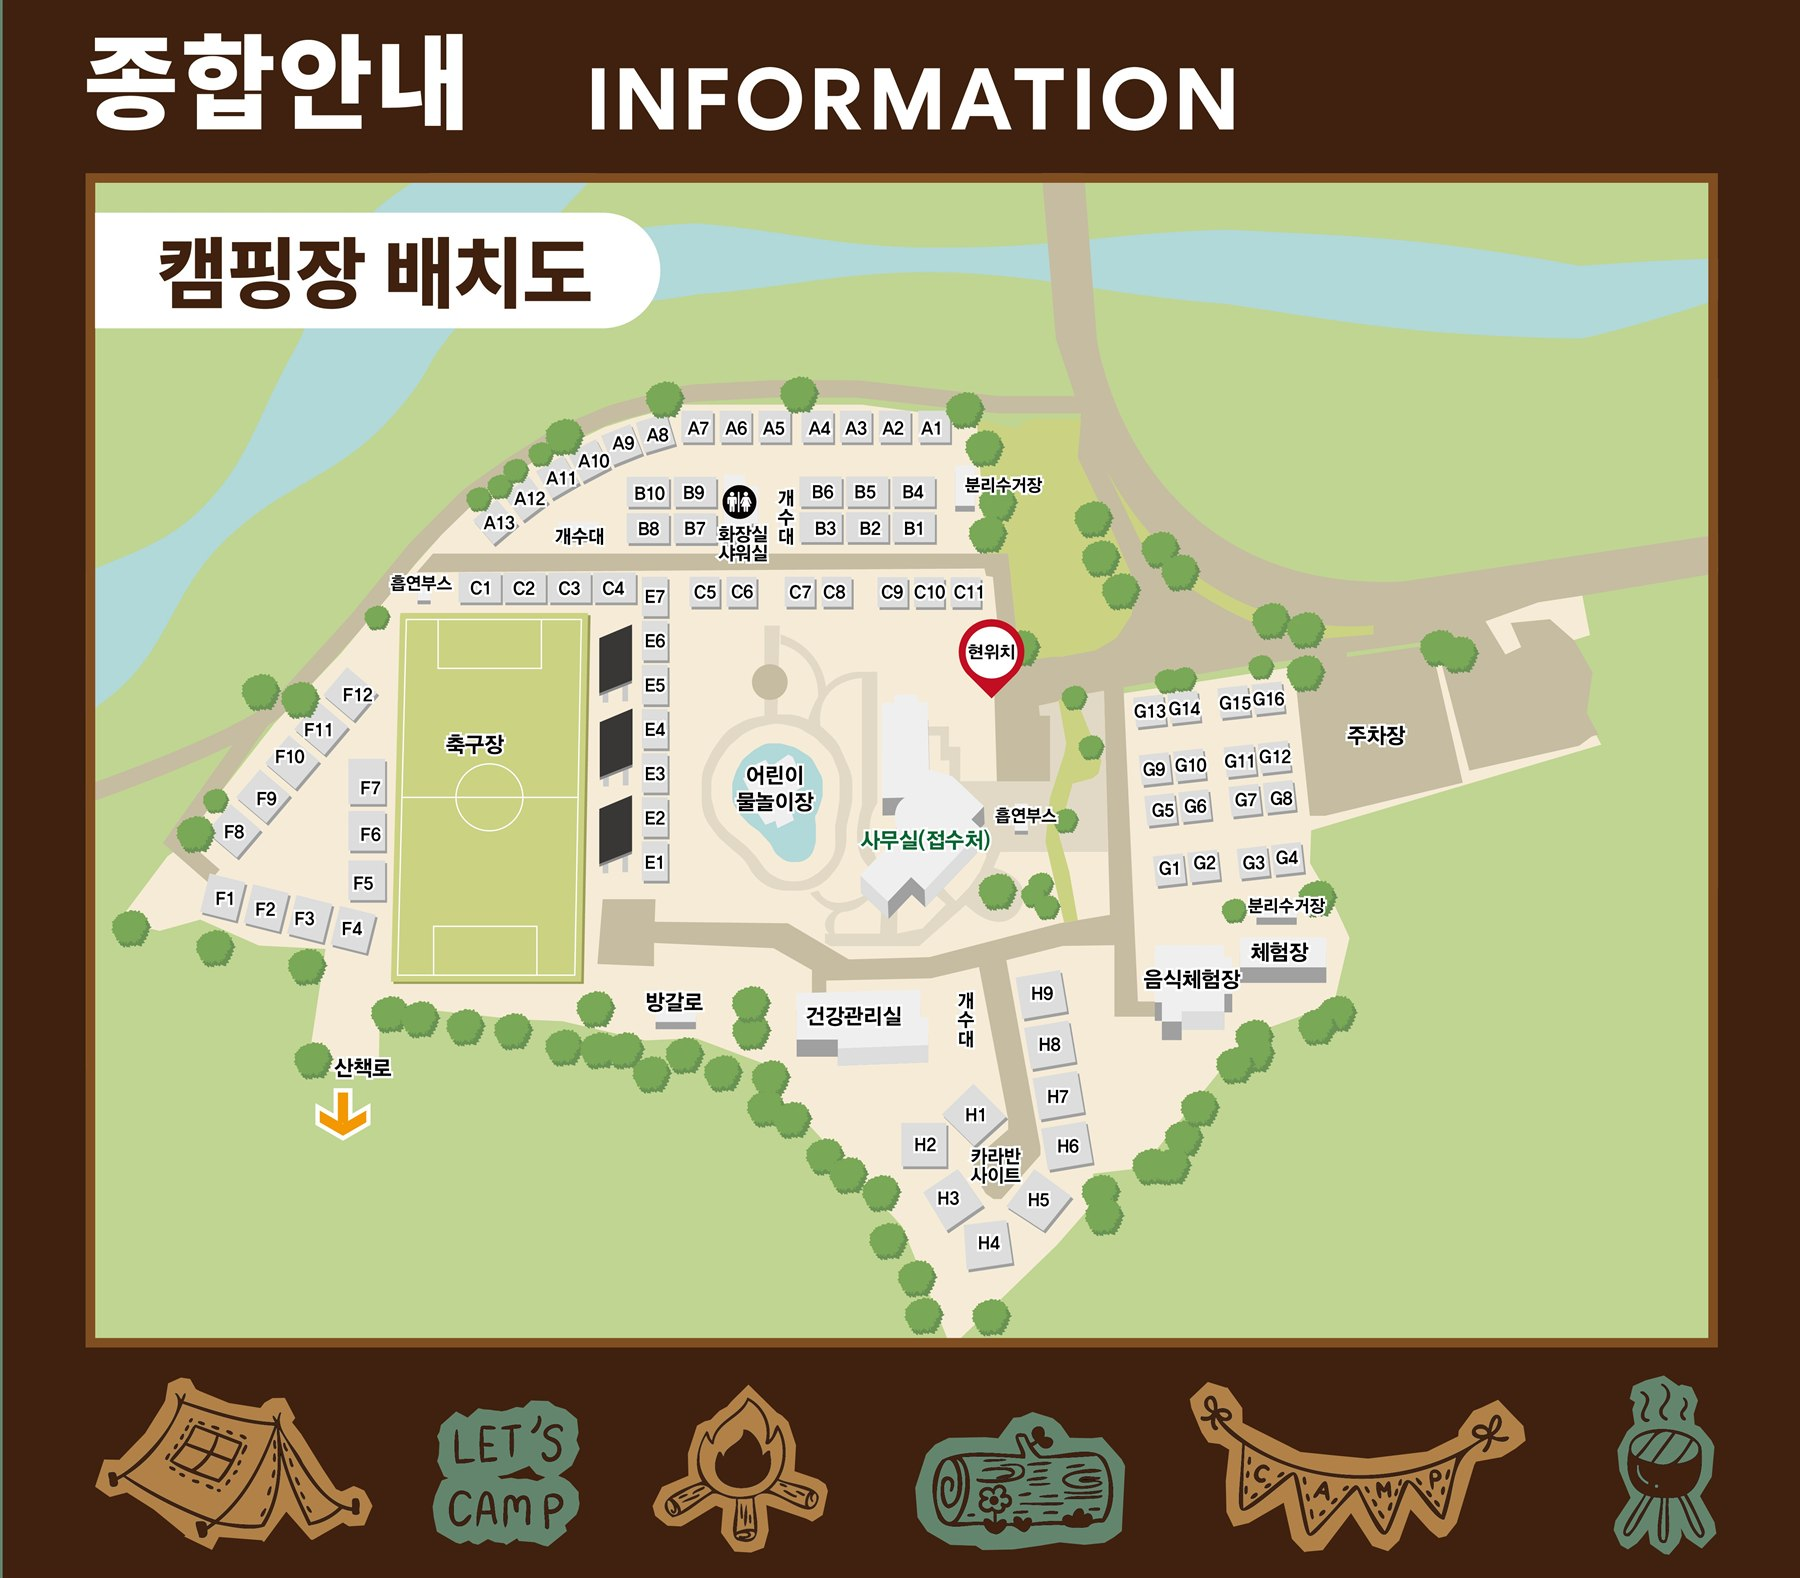
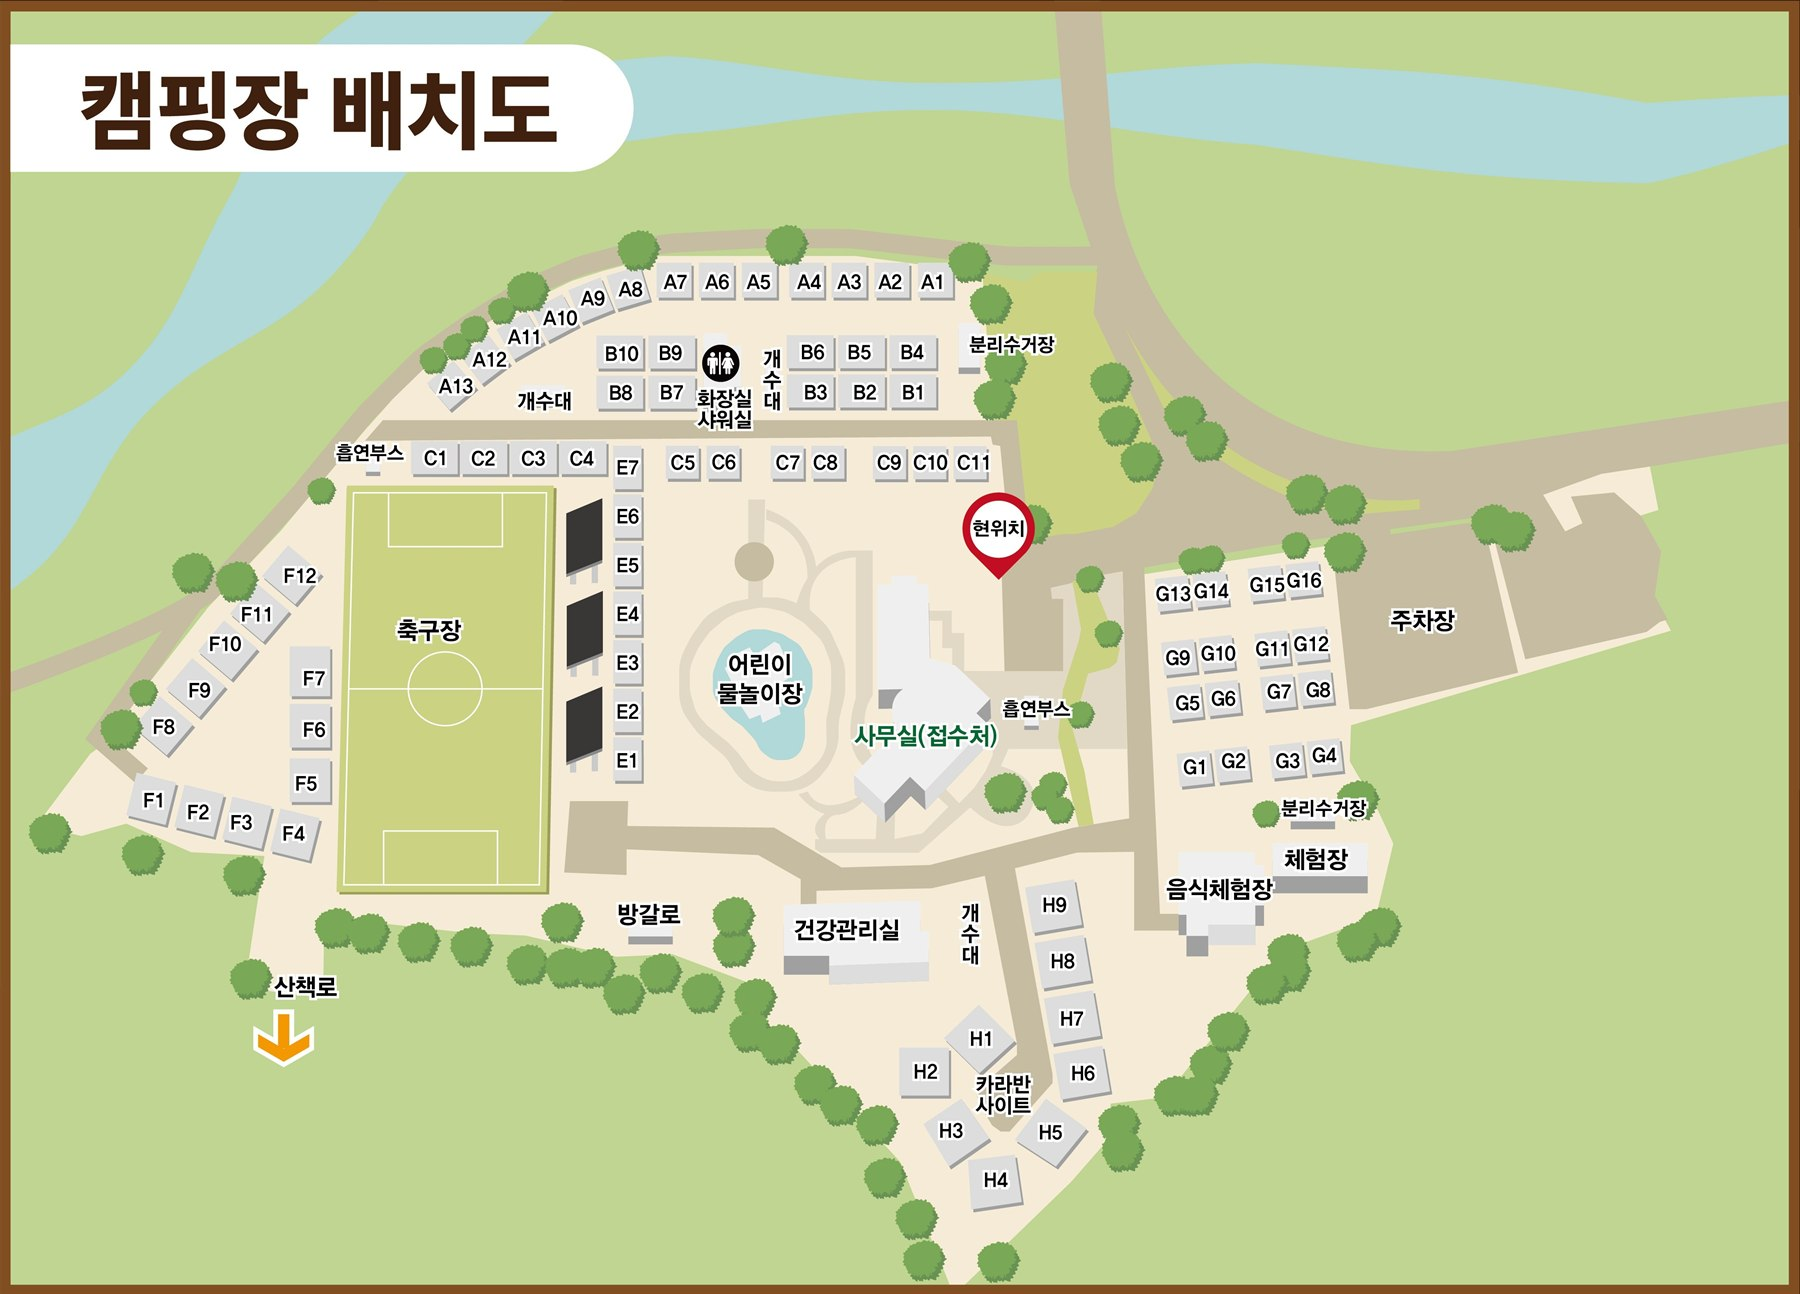
배치도 이미지 교체 · 카라반펜션 9실 / 총 20실로 수정

diff --git a/camping.html b/camping.html
@@ -4,7 +4,7 @@
   <meta charset="UTF-8" />
   <meta name="viewport" content="width=device-width, initial-scale=1.0" />
   <title>너와두리 캠핑장 &amp; 숙소 | 요금 · 시설 안내</title>
-  <meta name="description" content="너와두리 캠핑장 오토캠핑 70동 요금과 이용안내, 카라반펜션 등 숙소 22실, 편의시설과 부대시설(축구장·물놀이체험장·세미나실) 안내. 예약문의 010-2309-7620" />
+  <meta name="description" content="너와두리 캠핑장 오토캠핑 70동 요금과 이용안내, 카라반펜션 등 숙소 20실, 편의시설과 부대시설(축구장·물놀이체험장·세미나실) 안내. 예약문의 010-2309-7620" />
 
   <link rel="stylesheet" as="style" crossorigin href="https://cdn.jsdelivr.net/gh/orioncactus/pretendard@v1.3.9/dist/web/variable/pretendardvariable-dynamic-subset.min.css" />
   <script src="https://cdn.tailwindcss.com?plugins=forms"></script>
@@ -139,7 +139,7 @@
       </nav>
       <h1 class="mt-4 text-5xl font-extrabold leading-[1.05] tracking-tightest text-leaf-900 sm:text-6xl">너와두리 캠핑장 &amp; 숙소</h1>
       <p class="mt-5 max-w-2xl text-[16.5px] leading-snug text-stone-600">
-        오토캠핑 사이트 70동, 숙소 22실, 축구장과 물놀이체험장까지
+        오토캠핑 사이트 70동, 숙소 20실, 축구장과 물놀이체험장까지
         한두레마을이 직접 운영합니다.
       </p>
 
@@ -324,7 +324,7 @@
         <div class="reveal mt-12">
           <div class="-mx-5 px-5 sm:mx-0 sm:px-0">
             <div id="stayTabs" role="tablist" aria-label="객실 분류" class="no-bar flex gap-2 overflow-x-auto pb-2">
-              <button type="button" role="tab" id="st-carapension" aria-controls="sp-carapension" aria-selected="true" class="vt">카라반펜션 (11실)</button>
+              <button type="button" role="tab" id="st-carapension" aria-controls="sp-carapension" aria-selected="true" class="vt">카라반펜션 (9실)</button>
               <button type="button" role="tab" id="st-family" aria-controls="sp-family" aria-selected="false" class="vt" tabindex="-1">건강관리실 (8실)</button>
               <button type="button" role="tab" id="st-family2" aria-controls="sp-family2" aria-selected="false" class="vt" tabindex="-1">펜션 (2실)</button>
               <button type="button" role="tab" id="st-group" aria-controls="sp-group" aria-selected="false" class="vt" tabindex="-1">단체실 (1실)</button>
@@ -336,7 +336,7 @@
 
             <!--
               ┌──────────────────────────────────────────────────────────┐
-              │ 카라반펜션 11실                                            │
+              │ 카라반펜션 9실                                            │
               │                                                          │
               │ 아직 받지 못한 내용이 있어 비워 둔 곳이 있습니다.            │
               │   · 사진 — images/ 에 사진을 올리고 아래 src 를 바꾸세요.    │
@@ -364,13 +364,13 @@
                       </div>
                     </div>
                     <div class="lg:col-span-5">
-                      <h3 class="text-2xl font-extrabold text-leaf-900">카라반펜션 <span class="text-persimmon-600">11실</span></h3>
+                      <h3 class="text-2xl font-extrabold text-leaf-900">카라반펜션 <span class="text-persimmon-600">9실</span></h3>
                       <p class="mt-3 text-[15px] leading-snug text-stone-600">
                         캠핑 장비 없이도 카라반에서 하룻밤을 보내실 수 있는 숙소입니다.
-                        너와두리에서 가장 많은 11실을 갖추고 있습니다.
+                        너와두리에서 가장 많은 9실을 갖추고 있습니다.
                       </p>
                       <dl class="mt-6 space-y-3 text-[14.5px]">
-                        <div class="flex gap-3"><dt class="w-20 shrink-0 font-bold text-leaf-800">객실 수</dt><dd class="text-stone-600">11실</dd></div>
+                        <div class="flex gap-3"><dt class="w-20 shrink-0 font-bold text-leaf-800">객실 수</dt><dd class="text-stone-600">9실</dd></div>
                         <div class="flex gap-3"><dt class="w-20 shrink-0 font-bold text-leaf-800">구비 시설</dt><dd class="text-stone-400">준비 중입니다</dd></div>
                       </dl>
                       <div class="mt-6 flex flex-wrap gap-2.5">
@@ -481,7 +481,7 @@
         <div class="reveal mt-8 rounded-[2rem] border border-leaf-600/12 bg-white p-1.5 shadow-softlg">
           <div class="rounded-[calc(2rem-0.375rem)] p-6 sm:p-8">
             <div class="flex flex-wrap items-center justify-between gap-3">
-              <h3 class="text-xl font-bold text-leaf-900">숙박 요금 한눈에 보기 <span class="ml-1 text-[15px] font-semibold text-stone-500">총 22실</span></h3>
+              <h3 class="text-xl font-bold text-leaf-900">숙박 요금 한눈에 보기 <span class="ml-1 text-[15px] font-semibold text-stone-500">총 20실</span></h3>
             </div>
 
             <div class="mt-6 tbl-wrap">
@@ -490,7 +490,7 @@
                   <tr><th class="!text-left">구분</th><th>객실 수</th><th>평수</th><th>유형</th><th>이용요금</th></tr>
                 </thead>
                 <tbody>
-                  <tr><td class="lead">카라반펜션</td><td>11실</td><td class="text-stone-400">—</td><td class="text-stone-400">—</td><td class="price">200,000원</td></tr>
+                  <tr><td class="lead">카라반펜션</td><td>9실</td><td class="text-stone-400">—</td><td class="text-stone-400">—</td><td class="price">200,000원</td></tr>
                   <tr><td class="lead">건강관리실 (2~3인)<br /><span class="text-[12.5px] font-medium text-stone-500">반시·둥시·연시·홍시·단감·곶감·월아·대봉</span></td><td>8실</td><td>3평</td><td>1층 / 온돌형</td><td class="price">60,000원</td></tr>
                   <tr><td class="lead">펜션 (4~8인)<br /><span class="text-[12.5px] font-medium text-stone-500">한두레·너와두리</span></td><td>2실</td><td>12평</td><td>1층 / 온돌형</td><td class="price">200,000원</td></tr>
                   <tr><td class="lead">단체실 (25~30인)</td><td>1실</td><td>20평</td><td>1층 / 온돌형</td><td class="price">250,000원</td></tr>
@@ -760,7 +760,7 @@
               </div>
               <p class="mt-2 text-[13.5px] text-stone-500">배치도를 누르면 크게 볼 수 있습니다. 사이트 번호(A·B·C·E·F·G, 카라반 H)를 확인해 보세요.</p>
               <button type="button" id="mapOpen" class="group relative mt-5 block w-full overflow-hidden rounded-[1.5rem] border border-leaf-600/12">
-                <img src="images/camp-map.jpg" alt="너와두리 캠핑장 종합안내 배치도 — A·B·C·E·F·G 캠핑 구역과 H 카라반 사이트, 축구장, 어린이 물놀이장, 사무실(접수처), 건강관리실, 음식체험장, 주차장, 개수대·화장실·샤워실 위치" width="1800" height="1578" loading="lazy" decoding="async" class="w-full object-contain" />
+                <img src="images/camp-map.jpg" alt="너와두리 캠핑장 종합안내 배치도 — A·B·C·E·F·G 캠핑 구역과 H 카라반 사이트, 축구장, 어린이 물놀이장, 사무실(접수처), 건강관리실, 음식체험장, 주차장, 개수대·화장실·샤워실 위치" width="1800" height="1294" loading="lazy" decoding="async" class="w-full object-contain" />
                 <span class="pointer-events-none absolute inset-0 bg-leaf-900/0 u-ease group-hover:bg-leaf-900/15"></span>
                 <span class="pointer-events-none absolute bottom-3 right-3 inline-flex items-center gap-1.5 rounded-full bg-leaf-900/70 px-3.5 py-2 text-[12.5px] font-bold text-white backdrop-blur-md u-ease group-hover:bg-persimmon-500">
                   <iconify-icon icon="solar:magnifer-zoom-in-linear" class="text-base"></iconify-icon>크게 보기

diff --git a/index.html b/index.html
@@ -4,7 +4,7 @@
   <meta charset="UTF-8" />
   <meta name="viewport" content="width=device-width, initial-scale=1.0" />
   <title>너와두리 캠핑장 · 한두레마을 | 충북 옥천 농촌캠핑</title>
-  <meta name="description" content="충북 옥천 청성면 한두레마을이 운영하는 너와두리 캠핑장. 오토캠핑 70동, 숙소 22실, 축구장·물놀이터·에어바운스까지. 예약문의 010-2309-7620" />
+  <meta name="description" content="충북 옥천 청성면 한두레마을이 운영하는 너와두리 캠핑장. 오토캠핑 70동, 숙소 20실, 축구장·물놀이터·에어바운스까지. 예약문의 010-2309-7620" />
 
   <link rel="stylesheet" as="style" crossorigin href="https://cdn.jsdelivr.net/gh/orioncactus/pretendard@v1.3.9/dist/web/variable/pretendardvariable-dynamic-subset.min.css" />
   <script src="https://cdn.tailwindcss.com?plugins=forms"></script>
@@ -174,7 +174,7 @@
             </div>
             <div>
               <dt class="text-[12px] font-medium uppercase tracking-wider text-stone-400">숙소</dt>
-              <dd class="mt-1 text-xl font-bold text-leaf-800">22실</dd>
+              <dd class="mt-1 text-xl font-bold text-leaf-800">20실</dd>
             </div>
             <div>
               <dt class="text-[12px] font-medium uppercase tracking-wider text-stone-400">이용 시간</dt>
@@ -182,9 +182,9 @@
             </div>
           </dl>
 
-          <!-- 숙소 22실의 구성 -->
+          <!-- 숙소 20실의 구성 -->
           <ul class="reveal mt-5 flex max-w-lg flex-wrap items-center gap-x-2.5 gap-y-2 text-[13px] text-stone-500" style="transition-delay:.28s">
-            <li class="rounded-full bg-leaf-50 px-3 py-1.5">카라반펜션 <b class="font-bold text-leaf-800">11실</b></li>
+            <li class="rounded-full bg-leaf-50 px-3 py-1.5">카라반펜션 <b class="font-bold text-leaf-800">9실</b></li>
             <li class="rounded-full bg-leaf-50 px-3 py-1.5">건강관리실 <b class="font-bold text-leaf-800">8실</b></li>
             <li class="rounded-full bg-leaf-50 px-3 py-1.5">펜션 <b class="font-bold text-leaf-800">2실</b></li>
             <li class="rounded-full bg-leaf-50 px-3 py-1.5">단체실 <b class="font-bold text-leaf-800">1실</b></li>
@@ -246,7 +246,7 @@
             <span class="inline-flex items-center gap-2 rounded-full bg-persimmon-100 px-3 py-1 text-[11px] font-bold uppercase tracking-[0.15em] text-persimmon-700">너와두리</span>
             <h2 class="mt-5 text-4xl font-extrabold leading-snug tracking-tight text-leaf-900 sm:text-[2.75rem]">캠핑장 &amp; 숙소<br class="hidden sm:block" /> 시설 안내</h2>
             <p class="mt-5 text-[16px] leading-snug text-stone-600">
-              오토캠핑 사이트 70동, 숙소 22실, 축구장과 물놀이터와 강당까지<br />
+              오토캠핑 사이트 70동, 숙소 20실, 축구장과 물놀이터와 강당까지<br />
               가족 캠핑 및 숙박부터, 단체행사 세미나까지 가능한 너와두리 농촌 체험마을
             </p>
           </div>
@@ -265,7 +265,7 @@
           <a href="camping.html#stay" class="group u-ease rounded-[1.5rem] border border-leaf-600/12 bg-white p-6 shadow-soft hover:-translate-y-1 hover:border-persimmon-300 hover:shadow-softlg">
             <span class="grid h-12 w-12 place-items-center rounded-2xl bg-persimmon-400 text-white"><iconify-icon icon="ph:van-fill" class="text-2xl"></iconify-icon></span>
             <h3 class="mt-4 text-[17px] font-bold text-leaf-900">카라반펜션 &amp; 숙소</h3>
-            <p class="mt-1.5 text-[14px] leading-snug text-stone-500">카라반펜션 11 · 건강관리실 8 · 펜션 2 · 단체실 1</p>
+            <p class="mt-1.5 text-[14px] leading-snug text-stone-500">카라반펜션 9 · 건강관리실 8 · 펜션 2 · 단체실 1</p>
           </a>
           <a href="camping.html#facility" class="group u-ease rounded-[1.5rem] border border-leaf-600/12 bg-white p-6 shadow-soft hover:-translate-y-1 hover:border-persimmon-300 hover:shadow-softlg">
             <span class="grid h-12 w-12 place-items-center rounded-2xl bg-leaf-600 text-white"><iconify-icon icon="ph:shower-fill" class="text-2xl"></iconify-icon></span>
